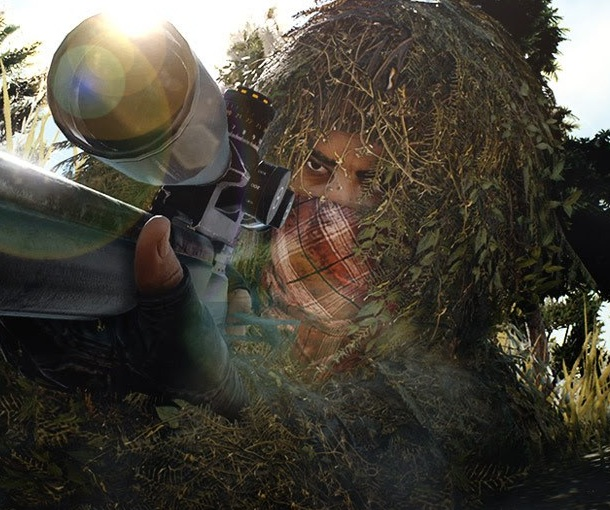
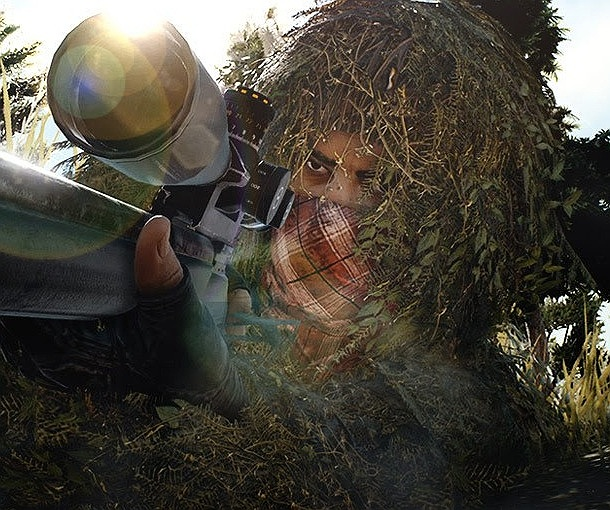
Video photos: sharpen images, add Ken Burns motion, warm vignette and hover sheen for stylish lively look

diff --git a/index.html b/index.html
@@ -940,8 +940,29 @@
     transition:transform .3s cubic-bezier(.2,.8,.2,1), border-color .3s ease, box-shadow .3s ease;
   }
   .vidcard:hover{transform:translateY(-5px);border-color:rgba(255,94,26,0.5);box-shadow:0 22px 40px -18px rgba(0,0,0,0.85), 0 0 24px rgba(255,94,26,0.12);}
-  .vidcard img{position:absolute;inset:0;width:100%;height:100%;object-fit:cover;object-position:center;transition:transform .6s ease;filter:contrast(1.07) saturate(1.1) brightness(1.02);image-rendering:auto;}
-  .vidcard:hover img{transform:scale(1.06);}
+  .vidcard img{
+    position:absolute;inset:0;width:100%;height:100%;object-fit:cover;object-position:center;
+    filter:contrast(1.1) saturate(1.14) brightness(1.03);
+    transform-origin:60% 40%;
+    animation:kenBurns 22s ease-in-out infinite alternate;
+    transition:filter .3s ease;
+  }
+  .vidcard:nth-child(2) img{transform-origin:42% 58%;animation-duration:26s;animation-direction:alternate-reverse;}
+  .vidcard:nth-child(3) img{transform-origin:52% 30%;animation-duration:24s;animation-delay:-5s;}
+  .vidcard:hover img{filter:contrast(1.14) saturate(1.2) brightness(1.08);}
+  @keyframes kenBurns{from{transform:scale(1.04);}to{transform:scale(1.15);}}
+  /* stylish diagonal sheen sweeping on hover */
+  .vidcard::before{
+    content:"";position:absolute;inset:0;z-index:2;pointer-events:none;
+    background:linear-gradient(115deg, transparent 38%, rgba(255,255,255,0.16) 50%, transparent 62%);
+    transform:translateX(-130%);
+  }
+  .vidcard:hover::before{animation:vidSheen 1.1s ease-out;}
+  @keyframes vidSheen{to{transform:translateX(130%);}}
+  @media (prefers-reduced-motion: reduce){
+    .vidcard img{animation:none;}
+    .vidcard:hover::before{animation:none;}
+  }
   /* clean premium thumbnail scenes */
   .vid-scene{position:absolute;inset:0;z-index:0;overflow:hidden;background:#0a0810;transition:transform .6s ease;}
   .vidcard:hover .vid-scene{transform:scale(1.05);}
@@ -971,7 +992,10 @@
   @media (prefers-reduced-motion: reduce){.vid-emblem{animation:none;}}
   .vidcard::after{
     content:"";position:absolute;inset:0;z-index:1;pointer-events:none;
-    background:linear-gradient(180deg, rgba(0,0,0,0.25) 0%, transparent 26%, rgba(0,0,0,0.5) 58%, rgba(0,0,0,0.96) 100%);
+    background:
+      radial-gradient(120% 80% at 50% 12%, rgba(255,120,40,0.12), transparent 55%),
+      radial-gradient(140% 120% at 50% 50%, transparent 55%, rgba(0,0,0,0.55) 100%),
+      linear-gradient(180deg, rgba(0,0,0,0.25) 0%, transparent 26%, rgba(0,0,0,0.5) 58%, rgba(0,0,0,0.96) 100%);
   }
   .vid-meta{position:absolute;left:14px;top:14px;z-index:3;display:flex;gap:8px;align-items:center;}
   .vid-dur{
